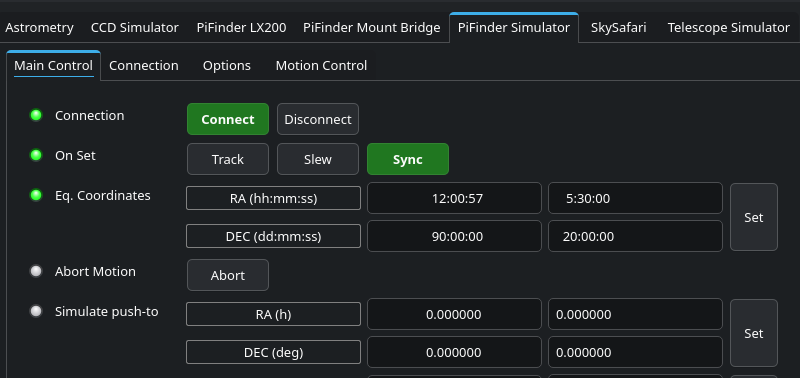
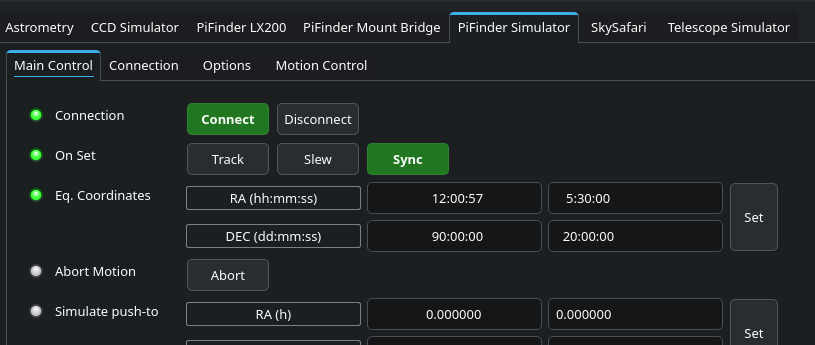
docs(presentation): balance the simulator-slide screenshots
- re-crop sim_mount_c / sim_pf_c to end on a clean row and match aspect
- more breathing room between the column text and each screenshot

diff --git a/docs/presentations/beamer/PFSM_overview.tex b/docs/presentations/beamer/PFSM_overview.tex
@@ -264,15 +264,18 @@ Only \code{EQUATORIAL\_EOD\_COORD} + \code{ON\_COORD\_SET} — never a mount com
 \column{0.48\textwidth}
 \textbf{Mount side}\\[0.3em]
 Stock INDI Telescope Simulator — Sync or GoTo like a real mount.
-\medskip{}
-\includegraphics[width=\linewidth,height=0.62\textheight,keepaspectratio]{sim_mount_c}
+\vspace{2.6em}
+
+\includegraphics[width=\linewidth,keepaspectratio]{sim_mount_c}
 \column{0.48\textwidth}
 \textbf{PiFinder side}
 \begin{itemize}
 \item \textbf{Simulator} — holds a settable RA/Dec.
 \item \textbf{Truth Injector} — POSTs to \code{/api/fake\_solve}.
 \end{itemize}
-\includegraphics[width=\linewidth,height=0.62\textheight,keepaspectratio]{sim_pf_c}
+\vspace{1.4em}
+
+\includegraphics[width=\linewidth,keepaspectratio]{sim_pf_c}
 \end{columns}
 \end{frame}
 
